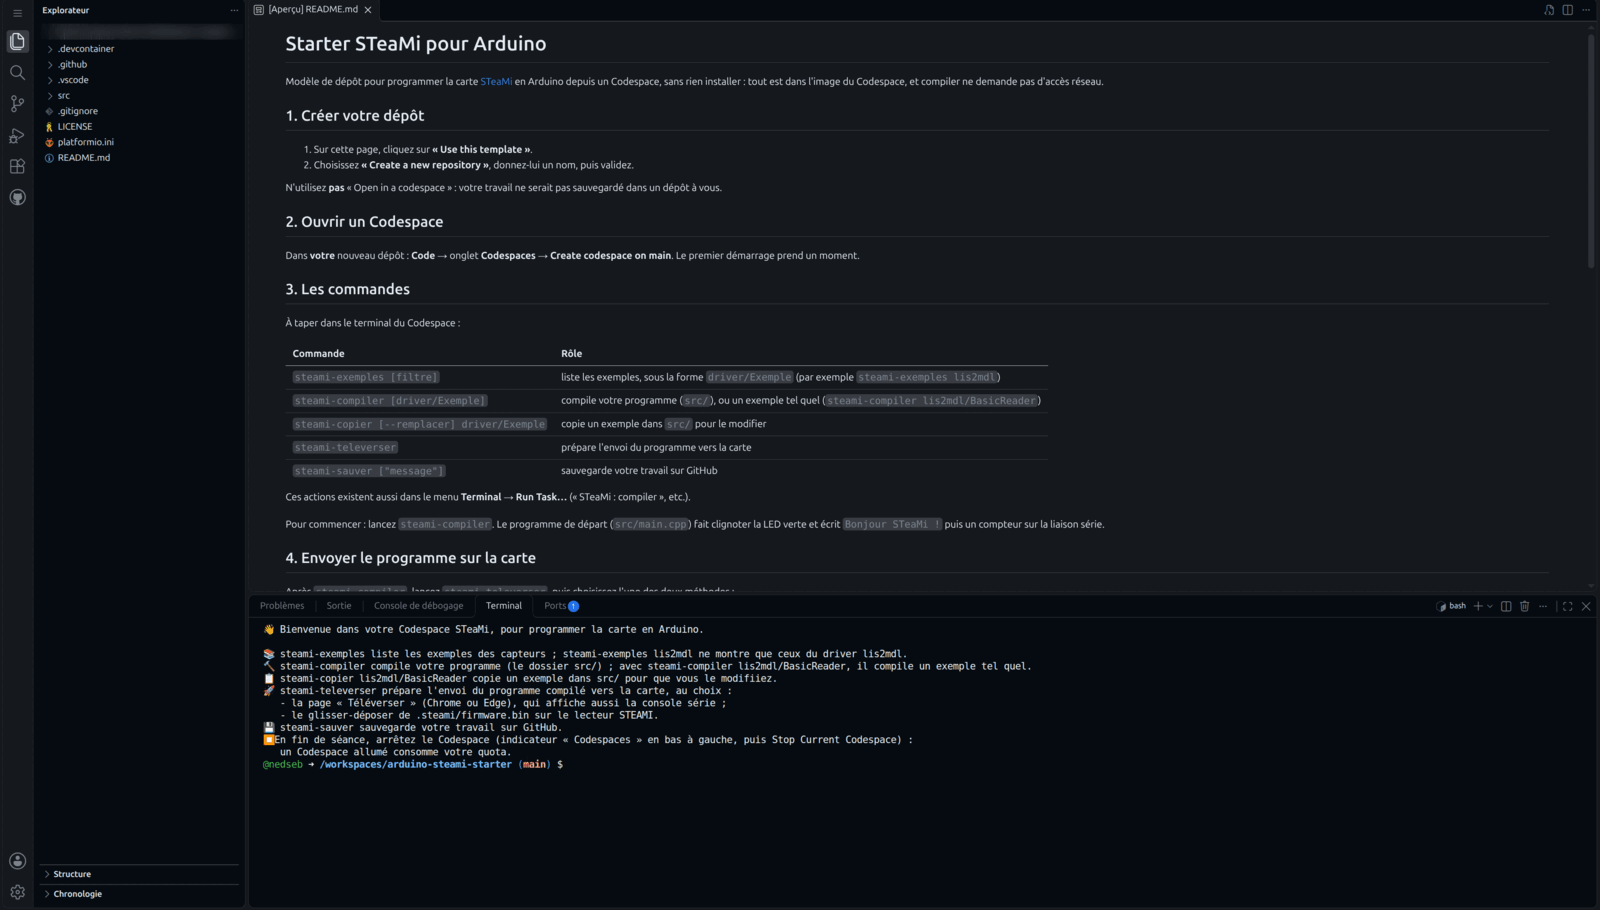
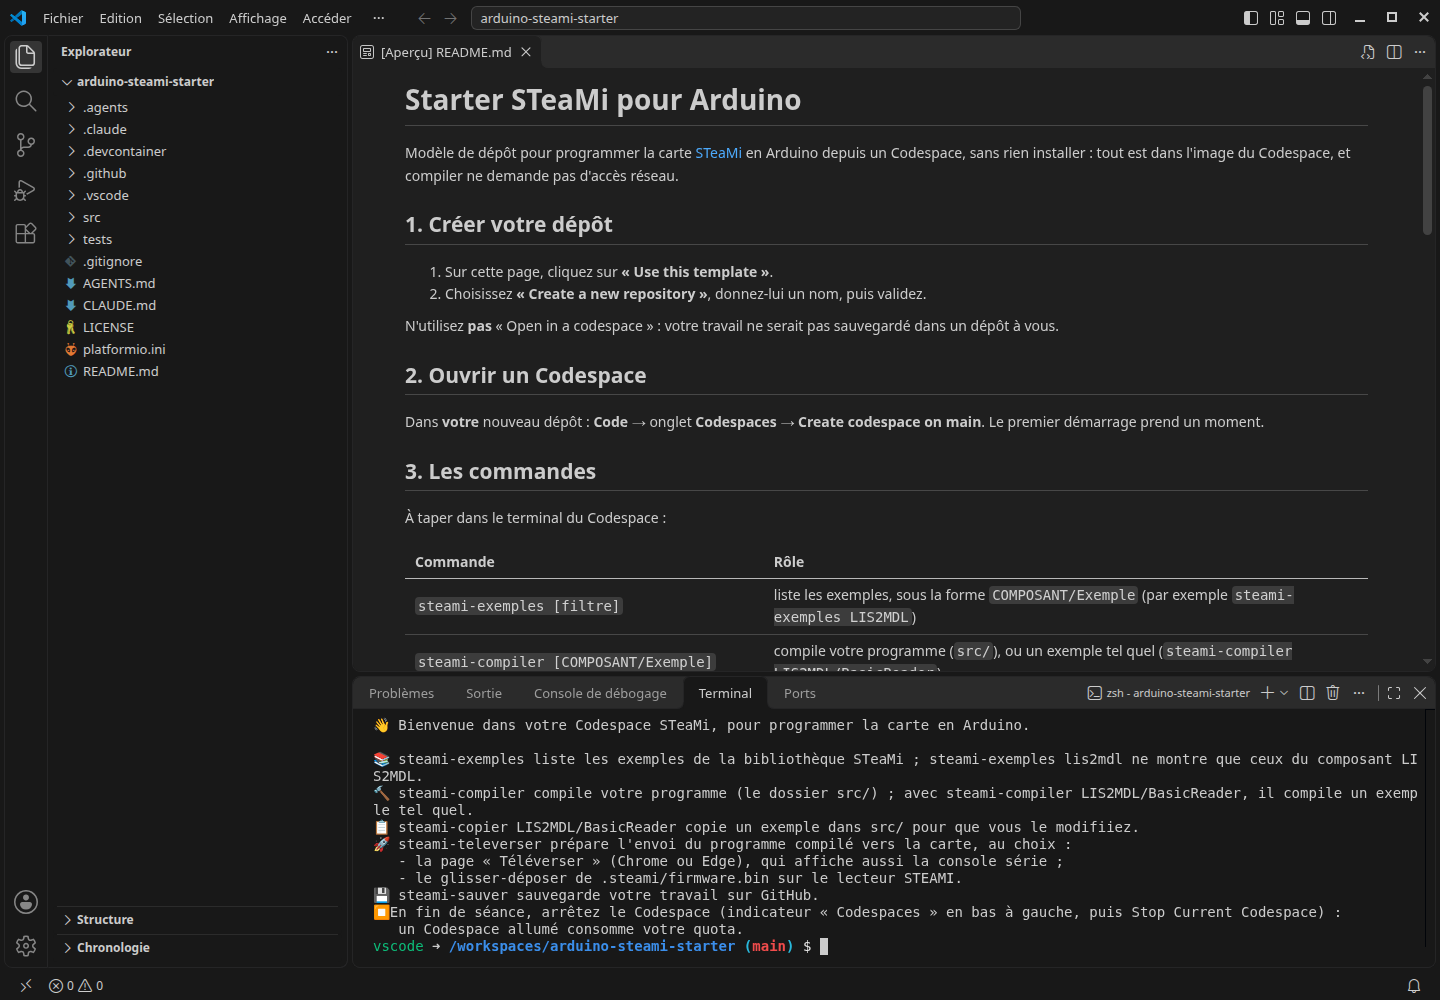
docs: captures du Codespace avec zsh, le paquet STeaMi et la page prête

diff --git a/docs/software/arduino/codespace.md b/docs/software/arduino/codespace.md
@@ -57,13 +57,13 @@ Le Codespace affiche VS Code dans le navigateur : l'explorateur de fichiers à g
 
 Toutes les actions de ce tutoriel se font avec ces commandes, tapées dans le terminal :
 
-| Commande                           | Rôle                                                           |
-| ---------------------------------- | -------------------------------------------------------------- |
-| `steami-exemples [filtre]`         | liste les exemples des drivers, sous la forme `driver/Exemple` |
-| `steami-compiler [driver/Exemple]` | compile le programme du dossier `src/`, ou un exemple tel quel |
-| `steami-copier driver/Exemple`     | copie un exemple dans `src/` pour le modifier                  |
-| `steami-televerser`                | prépare l'envoi du programme compilé vers la carte             |
-| `steami-sauver ["message"]`        | sauvegarde le travail sur GitHub                               |
+| Commande                              | Rôle                                                              |
+| ------------------------------------- | ----------------------------------------------------------------- |
+| `steami-exemples [filtre]`            | liste les exemples des drivers, sous la forme `COMPOSANT/Exemple` |
+| `steami-compiler [COMPOSANT/Exemple]` | compile le programme du dossier `src/`, ou un exemple tel quel    |
+| `steami-copier COMPOSANT/Exemple`     | copie un exemple dans `src/` pour le modifier                     |
+| `steami-televerser`                   | prépare l'envoi du programme compilé vers la carte                |
+| `steami-sauver ["message"]`           | sauvegarde le travail sur GitHub                                  |
 
 Le terminal est un shell **zsh** (avec oh-my-zsh). L'historique des commandes est conservé : la flèche vers le haut rappelle les commandes précédentes, même après l'arrêt et la reprise du Codespace.
 
@@ -100,9 +100,11 @@ Une vingtaine de secondes plus tard, la compilation se termine par :
 ✅ LIS2MDL/BasicReader compilé : firmware.bin prêt (steami-televerser pour l'envoyer sur la carte)
 ```
 
-Sans argument, `steami-compiler` compile le programme de votre dossier `src/`. Au départ, c'est le programme du modèle : il fait clignoter la LED verte et écrit `Bonjour STeaMi !`, puis un compteur, sur la liaison série. La capture suivante montre cette compilation du programme du modèle : les lignes `Compiling`, la taille occupée, `[SUCCESS]`, puis le message final. Le dossier `.steami/` apparaît alors dans l'explorateur ; il contient `firmware.bin`, le programme prêt à être envoyé.
+La capture montre les deux commandes : la liste des exemples du magnétomètre, puis la compilation, avec la bibliothèque `STeaMi @ 0.25.1` dans le graphe des dépendances, la taille occupée, `[SUCCESS]` et le message final. Le dossier `.steami/` apparaît alors dans l'explorateur ; il contient `firmware.bin`, le programme prêt à être envoyé.
 
-![Terminal après steami-compiler : lignes Compiling et Linking, utilisation de la mémoire RAM et Flash, ligne [SUCCESS] et message « src compilé : firmware.bin prêt »](/img/software/arduino/codespace-07-compilation.png)
+![Terminal zsh : steami-exemples lis2mdl liste LIS2MDL/BasicReader, DigitalCompass, MagneticCalibration et MetalDetector, puis steami-compiler LIS2MDL/BasicReader affiche la dépendance STeaMi @ 0.25.1, la ligne [SUCCESS] et le message « LIS2MDL/BasicReader compilé : firmware.bin prêt »](/img/software/arduino/codespace-07-compilation.png)
+
+Sans argument, `steami-compiler` compile le programme de votre dossier `src/`. Au départ, c'est le programme du modèle : il fait clignoter la LED verte et écrit `Bonjour STeaMi !`, puis un compteur, sur la liaison série.
 
 ## 5. Envoyer le programme sur la carte
 
@@ -143,7 +145,10 @@ Cette méthode envoie le programme directement depuis le navigateur par USB (Web
 
    ![Onglet Ports de VS Code : la ligne du port 8080 avec le processus steami_serveur.py et l'icône « Ouvrir dans un navigateur »](/img/software/arduino/codespace-06-onglet-ports.png)
 
-2. La page Téléverser doit s'ouvrir **dans un onglet de Chrome ou d'Edge**.
+2. La page Téléverser doit s'ouvrir **dans un onglet de Chrome ou d'Edge**. Son bandeau indique le dernier programme compilé, sa taille et l'heure de compilation.
+
+   ![Page Téléverser avant la connexion : bandeau « Programme prêt : LIS2MDL/BasicReader, 31 Ko », boutons Connecter la carte, Téléverser (grisé) et Effacer la console, état « Carte non connectée » et console série vide](/img/software/arduino/codespace-14-page-prete.png)
+
 3. Brancher la carte en USB, puis cliquer sur **Connecter la carte**. Chrome ouvre une fenêtre : choisir **STeaMi CMSIS-DAP** et cliquer sur **Connexion**.
 
    ![Fenêtre de Chrome « souhaite se connecter » avec le périphérique STeaMi CMSIS-DAP sélectionné et le bouton Connexion, devant la page « Téléverser sur la STeaMi »](/img/software/arduino/codespace-08-connecter-carte.png)
@@ -152,7 +157,7 @@ Cette méthode envoie le programme directement depuis le navigateur par USB (Web
 
    ![Page Téléverser pendant l'envoi : état « Carte connectée », barre de progression à environ 15 % et message « Téléversement en cours… »](/img/software/arduino/codespace-09-televersement-en-cours.png)
 
-5. Quand le message « Programme téléversé. » apparaît, la carte redémarre toute seule et exécute le nouveau programme. La **console série** affiche ce que le programme écrit avec `Serial.print()` : ici `Bonjour STeaMi !`, puis un compteur.
+5. Quand le message « Programme téléversé. » apparaît, la carte redémarre toute seule et exécute le nouveau programme. La **console série** affiche ce que le programme écrit avec `Serial.print()`. Avec `LIS2MDL/BasicReader`, ce sont les mesures du magnétomètre ; sur la capture ci-dessous, c'est le programme du modèle (`steami-compiler` sans argument), qui écrit `Bonjour STeaMi !`, puis un compteur.
 
    ![Page Téléverser terminée : barre de progression pleine, message « Programme téléversé. » et console série affichant « Bonjour STeaMi ! » puis 0 et 1](/img/software/arduino/codespace-10-programme-televerse.png)
 
